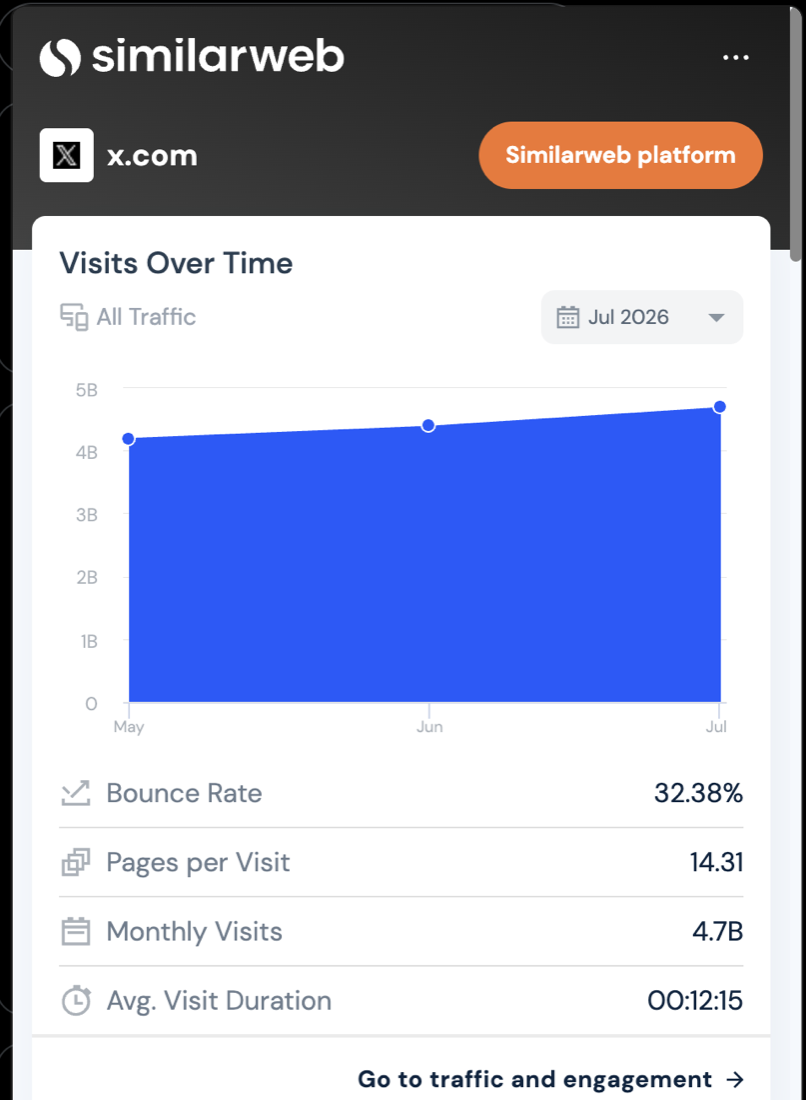
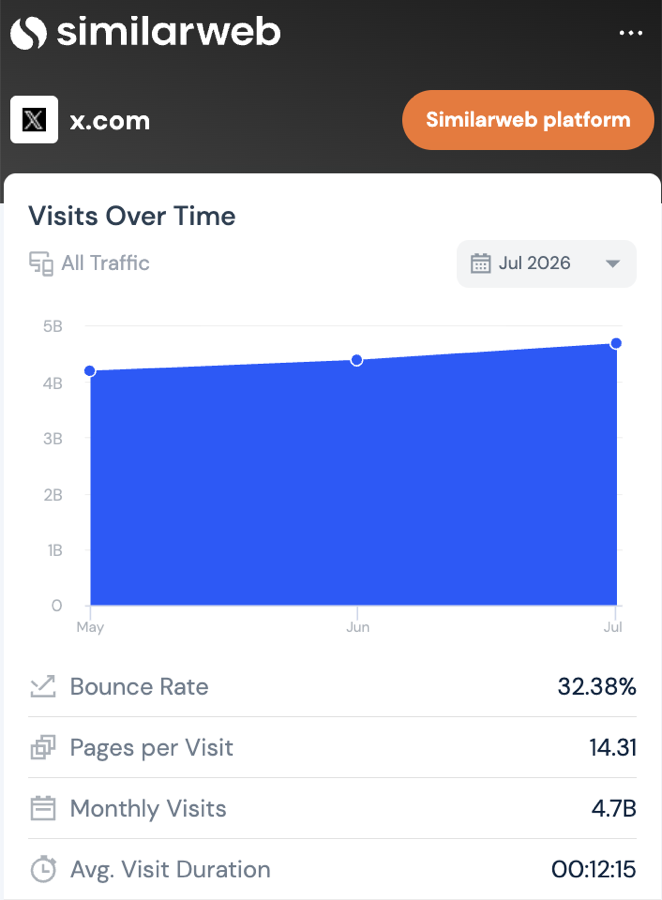
Nouvelle capture Similarweb, affichee en entier, arrondie, sans fond

diff --git a/index.html b/index.html
@@ -544,7 +544,7 @@ body.notesvues section.ici .notes{display:block}
         </div>
       </div>
 
-      <img class="twr h" data-tw="similarweb" src="img/similarweb-ext.png" alt="Panneau de l'extension Similarweb sur x.com" style="--l:46vh;--oy:0%;border:1px solid var(--filet);border-radius:var(--r);background:transparent">
+      <img class="twr" data-tw="similarweb" src="img/similarweb-ext.png" alt="Panneau de l'extension Similarweb sur x.com" style="--l:100%;height:auto;max-height:52vh;object-fit:contain;border-radius:var(--r);border:0;background:transparent;align-self:start;justify-self:center">
 
     </div>
 
